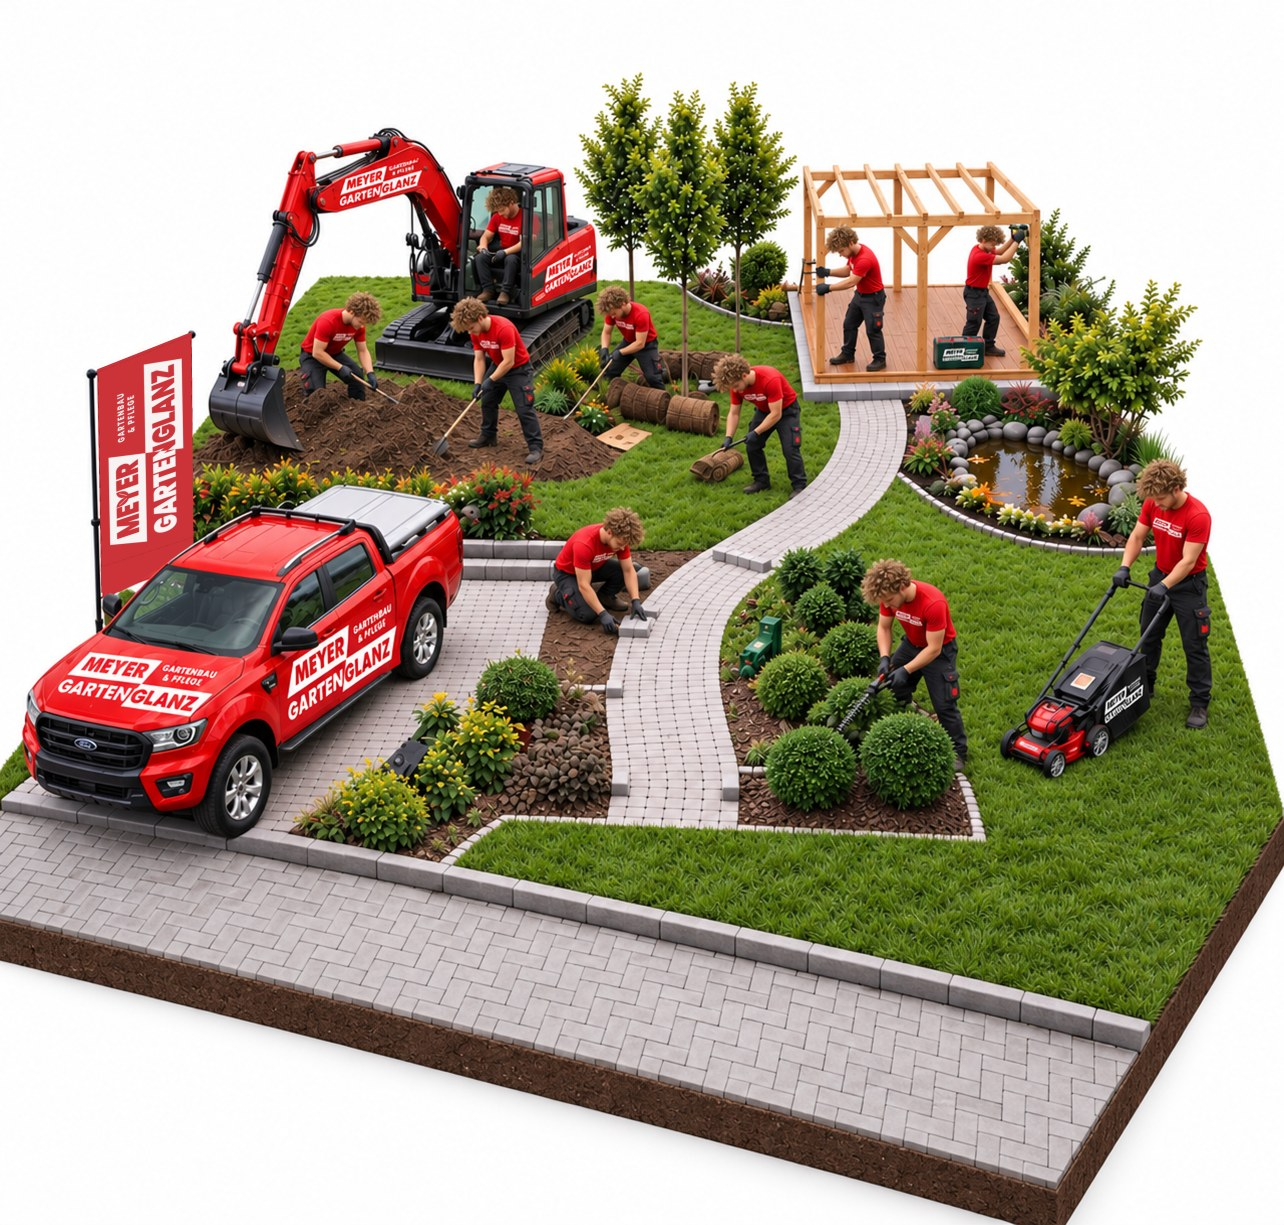
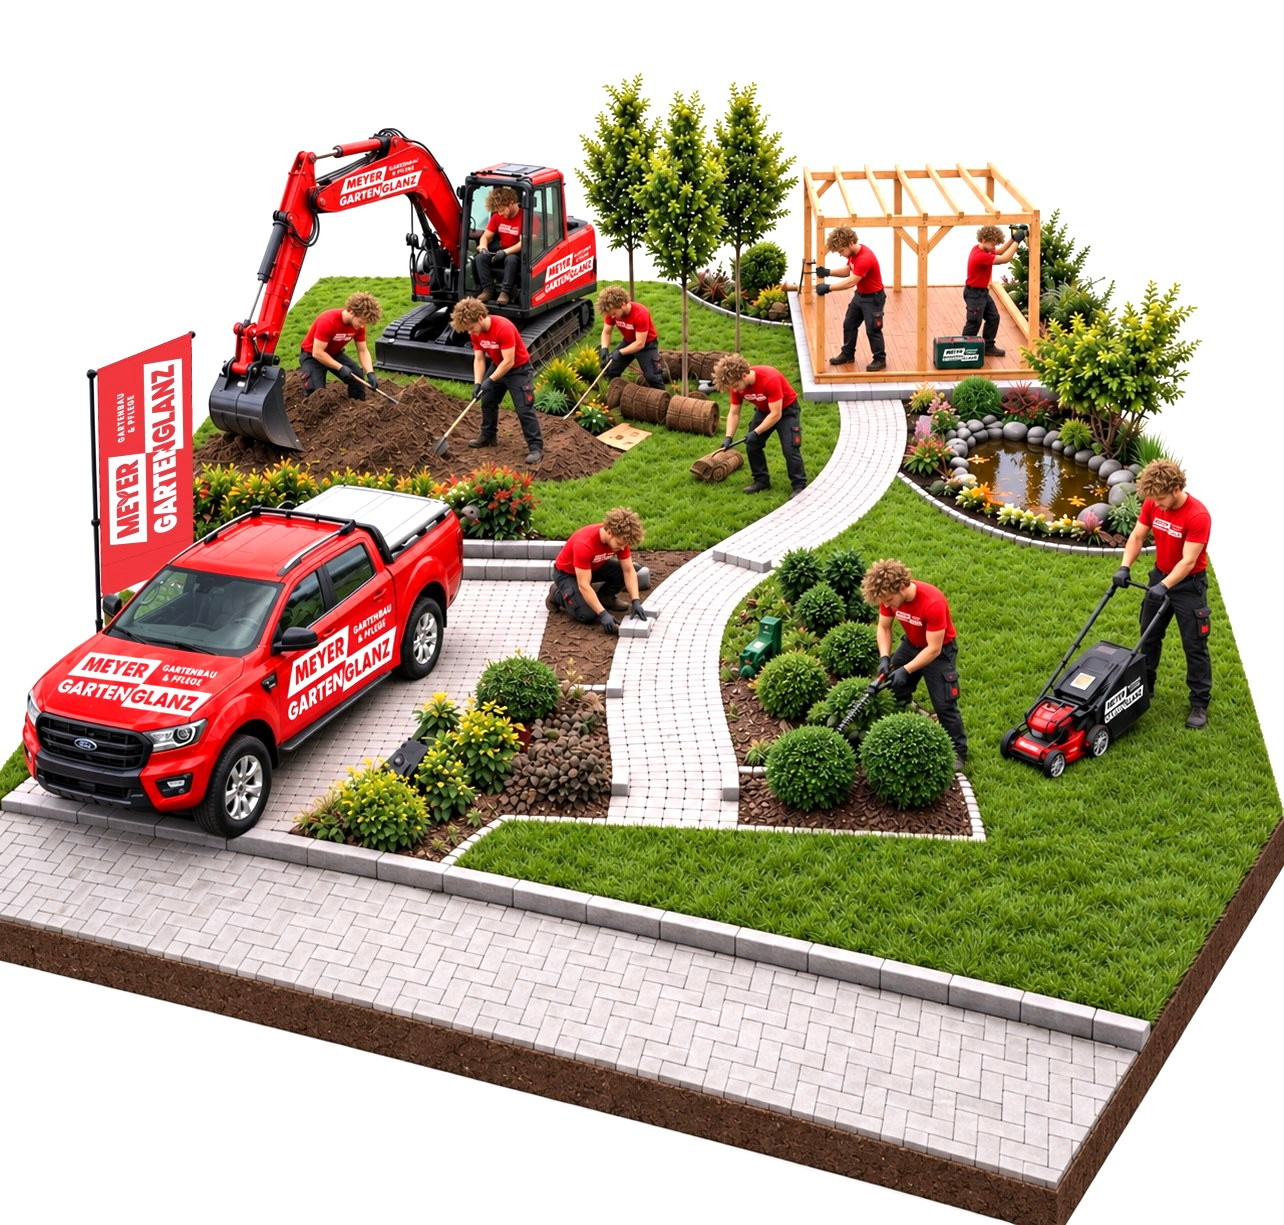
Hero bei Leistungen: helleres Bild, einheitlicher Textblock als Overlay
Claude-Session: https://claude.ai/code/session_01LmPg892E6TVTSN9vFyRnRh

diff --git a/leistungen.html b/leistungen.html
@@ -50,11 +50,11 @@ tailwind.config={theme:{extend:{"colors":{"on-error-container":"#93000a","surfac
 <!-- Hero Section -->
 <section class="relative w-full flex items-center justify-center overflow-hidden -mt-28 pt-28 bg-surface">
   <img class="w-full h-auto object-contain" alt="Meyer Gartenglanz Team bei Gartenbau- und Pflegearbeiten mit Fahrzeug, Bagger und Werkzeug" src="assets/images/hero-leistungen.jpg">
-  <div class="absolute top-28 right-0 bottom-0 left-0 flex items-center justify-center pointer-events-none">
-    <div class="max-w-container-max mx-auto px-margin-mobile lg:px-margin-desktop text-center flex flex-col items-center gap-6 pointer-events-auto">
-      <span class="font-label-sm text-accent uppercase tracking-widest bg-surface/80 px-4 py-1 rounded-full backdrop-blur-sm shadow-sm">Leistungen</span>
-      <h1 class="font-headline-xl text-headline-xl text-on-surface bg-surface/80 backdrop-blur-sm rounded-xl px-6 py-2">Planung, Bau &amp; Pflege aus einer Hand</h1>
-      <p class="font-body-lg text-on-surface-variant max-w-2xl bg-surface/80 backdrop-blur-sm rounded-xl px-6 py-3">Mit Schweizer Präzision und einem tiefen Verständnis für die Natur gestalten, bauen und pflegen wir grüne Räume, die zum Verweilen einladen.</p>
+  <div class="absolute top-28 right-0 bottom-0 left-0 flex items-center justify-center pointer-events-none px-margin-mobile">
+    <div class="max-w-2xl mx-auto text-center flex flex-col items-center gap-5 pointer-events-auto bg-surface/85 backdrop-blur-md rounded-2xl px-8 py-8 shadow-lg">
+      <span class="font-label-sm text-accent uppercase tracking-widest bg-secondary-container/60 px-4 py-1 rounded-full">Leistungen</span>
+      <h1 class="font-headline-xl text-headline-xl text-on-surface">Planung, Bau &amp; Pflege aus einer Hand</h1>
+      <p class="font-body-lg text-on-surface-variant">Mit Schweizer Präzision und einem tiefen Verständnis für die Natur gestalten, bauen und pflegen wir grüne Räume, die zum Verweilen einladen.</p>
     </div>
   </div>
 </section>
